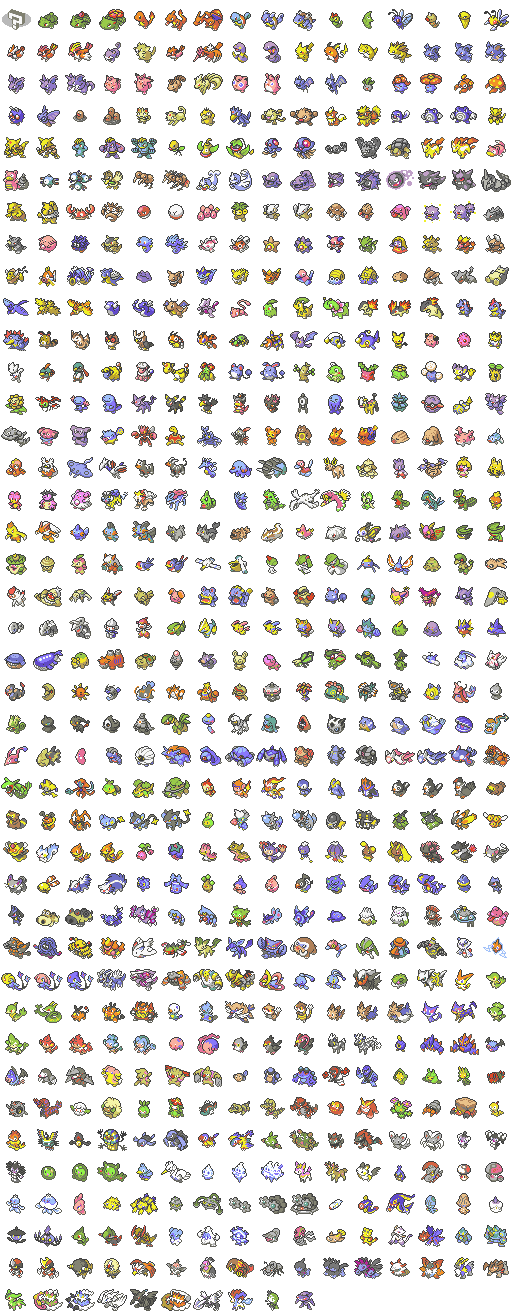
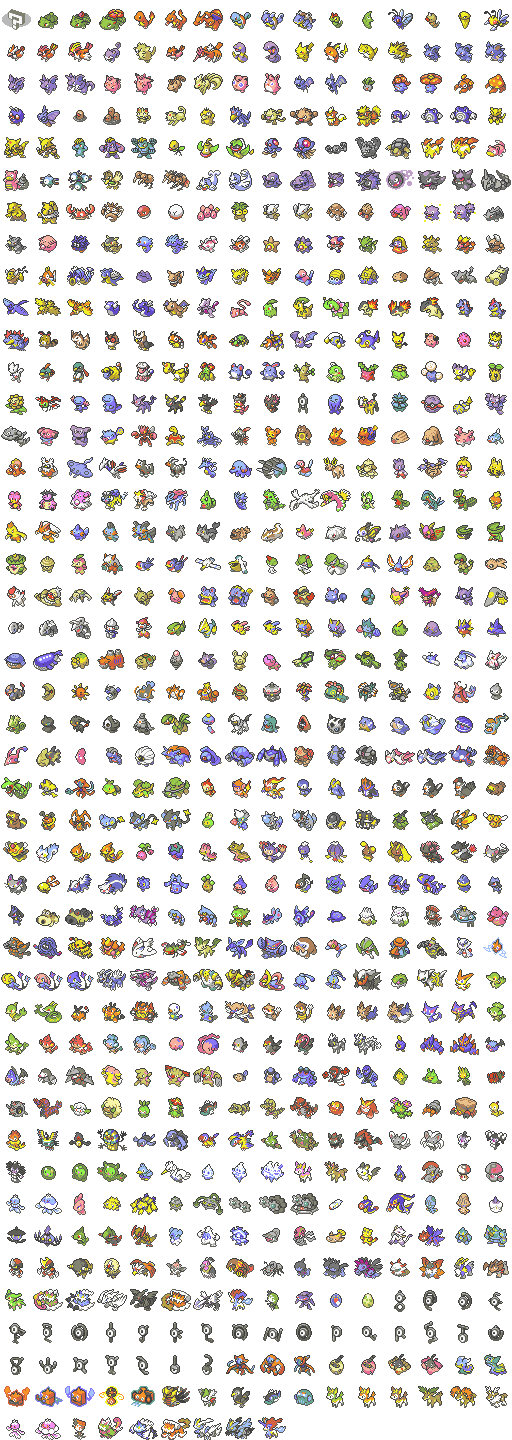
Add showing alternate forms

diff --git a/arm9/source/manager.cpp b/arm9/source/manager.cpp
@@ -65,11 +65,85 @@ std::shared_ptr<PKX> currentPokemon(int slot) {
 	else	return save->pkm(currentBox(), slot);
 }
 
-XYCoords getPokemonPosition(int dexNumber) {
-	if(dexNumber > 649)	return {0, 0};
+XYCoords getPokemonPosition(std::shared_ptr<PKX> pkm) {
+	if(pkm->species() > 649)	return {0, 0};
+	else if(pkm->species() == 201) { // Unown
+		if(pkm->alternativeForm() == 0);
+		else if(pkm->alternativeForm() < 5)
+			return {384+((pkm->alternativeForm()-1)*32), 1280};
+		else if(pkm->alternativeForm() < 21)
+			return {(pkm->alternativeForm()-5)*32, 1312};
+		else
+			return {(pkm->alternativeForm()-21)*32, 1344};
+	} else if(pkm->species() == 386) { // Deoxys
+		if(pkm->alternativeForm() > 0)
+			return {224+((pkm->alternativeForm()-1)*32), 1344};
+	} else if(pkm->species() == 412) { // Burmy
+		if(pkm->alternativeForm() > 0)
+			return {320+((pkm->alternativeForm()-1)*32), 1344};
+	} else if(pkm->species() == 413) { // Wormadam
+		if(pkm->alternativeForm() > 0)
+			return {384+((pkm->alternativeForm()-1)*32), 1344};
+	} else if(pkm->species() == 422) { // Shellos
+		if(pkm->alternativeForm() == 1)
+			return {448, 1344};
+	} else if(pkm->species() == 423) { // Gastrodon
+		if(pkm->alternativeForm() == 1)
+			return {480, 1344};
+	} else if(pkm->species() == 479) { // Rotom
+		if(pkm->alternativeForm() > 0)
+			return {(pkm->alternativeForm()-1)*32, 1376};
+	} else if(pkm->species() == 487) { // Giratina
+		if(pkm->alternativeForm() == 1)
+			return {160, 1376};
+	} else if(pkm->species() == 492) { // Shaymin
+		if(pkm->alternativeForm() == 1)
+			return {192, 1376};
+	} else if(pkm->species() == 521) { // Unfezant
+		if(pkm->gender() == 1)
+			return {224, 1376};
+	} else if(pkm->species() == 550) { // Basculin
+		if(pkm->alternativeForm() == 1)
+			return {256, 1376};
+	} else if(pkm->species() == 555) { // Darmanitan
+		if(pkm->alternativeForm() == 1)
+			return {288, 1376};
+	} else if(pkm->species() == 585) { // Deerling
+		if(pkm->alternativeForm() > 0)
+			return {320+((pkm->alternativeForm()-1)*32), 1376};
+	} else if(pkm->species() == 586) { // Sawsbuck
+		if(pkm->alternativeForm() > 0)
+			return {416+((pkm->alternativeForm()-1)*32), 1376};
+	} else if(pkm->species() == 592) { // Frillish
+		if(pkm->gender() == 1)
+			return {0, 1408};
+	} else if(pkm->species() == 593) { // Jellicent
+		if(pkm->gender() == 1)
+			return {32, 1408};
+	} else if(pkm->species() == 648) { // Meloetta
+		if(pkm->alternativeForm() == 1)
+			return {64, 1408};
+	} else if(pkm->species() == 641) { // Tornadus
+		if(pkm->alternativeForm() == 1)
+			return {96, 1408};
+	} else if(pkm->species() == 642) { // Thunderus
+		if(pkm->alternativeForm() == 1)
+			return {128, 1408};
+	} else if(pkm->species() == 645) { // Landorus
+		if(pkm->alternativeForm() == 1)
+			return {160, 1408};
+	} else if(pkm->species() == 646) { // Kyurem
+		if(pkm->alternativeForm() > 0)
+			return {192+((pkm->alternativeForm()-1)*32), 1408};
+	} else if(pkm->species() == 647) { // Keldeo
+		if(pkm->alternativeForm() == 1)
+			return {256, 1408};
+	}
+
+	// Non-alternate form, get based on dex number
 	XYCoords xy;
-	xy.y = (dexNumber/16)*pokemonSheetSize;
-	xy.x = (dexNumber-((dexNumber/16)*16))*pokemonSheetSize;
+	xy.y = (pkm->species()/16)*pokemonSheetSize;
+	xy.x = (pkm->species()-((pkm->species()/16)*16))*pokemonSheetSize;
 	return xy;
 }
 
@@ -169,7 +243,7 @@ void drawBox(bool top) {
 		for(int i=0;i<30;i++) {
 			// Fill Pokémon Sprites
 			if(Banks::bank->pkm(currentBankBox, i)->species() != 0) {
-				XYCoords xy = getPokemonPosition(Banks::bank->pkm(currentBankBox, i)->species());
+				XYCoords xy = getPokemonPosition(Banks::bank->pkm(currentBankBox, i));
 				fillSpriteFromSheetScaled(i+30, pokemonSheetScale, pokemonSheet, pokemonSheetSize, pokemonSheetSize, pokemonSheetData.width, xy.x, xy.y);
 			}
 		}
@@ -189,7 +263,7 @@ void drawBox(bool top) {
 		for(int i=0;i<30;i++) {
 			// Fill Pokémon Sprites
 			if(save->pkm(currentSaveBox, i)->species() != 0) {
-				XYCoords xy = getPokemonPosition(save->pkm(currentSaveBox, i)->species());
+				XYCoords xy = getPokemonPosition(save->pkm(currentSaveBox, i));
 				fillSpriteFromSheetScaled(i, pokemonSheetScale, pokemonSheet, pokemonSheetSize, pokemonSheetSize, pokemonSheetData.width, xy.x, xy.y);
 			}
 		}
@@ -233,9 +307,9 @@ void drawPokemonInfo(std::shared_ptr<PKX> pkm) {
 	}
 }
 
-void setHeldPokemon(int dexNum) {
-	if(dexNum != 0) {
-		XYCoords xy = getPokemonPosition(dexNum);
+void setHeldPokemon(std::shared_ptr<PKX> pkm) {
+	if(pkm->species() != 0) {
+		XYCoords xy = getPokemonPosition(pkm);
 		fillSpriteFromSheetScaled(bottomHeldPokemonID, pokemonSheetScale, pokemonSheet, pokemonSheetSize, pokemonSheetSize, pokemonSheetData.width, xy.x, xy.y);
 		fillSpriteFromSheetScaled(topHeldPokemonID, pokemonSheetScale, pokemonSheet, pokemonSheetSize, pokemonSheetSize, pokemonSheetData.width, xy.x, xy.y);
 	}
@@ -250,7 +324,7 @@ std::string aMenuText(int buttonMode, int i) {
 void drawAMenuButtons(std::vector<TextPos>& buttons, int buttonMode) {
 	for(uint i=0;i<buttons.size();i++) {
 		drawRectangle(buttons[i].x, buttons[i].y, 80, 24, DARKER_GRAY, false);
-		printText(aMenuText(buttonMode, i), buttons[i].x+4, buttons[i].y+4, false);
+		printTextMaxW(aMenuText(buttonMode, i), 80, 1, buttons[i].x+4, buttons[i].y+4, false);
 	}
 }
 
@@ -296,12 +370,13 @@ int aMenu(int pkmPos, std::vector<TextPos>& buttons, int buttonMode) {
 			optionSelected = false;
 			if(menuSelection == 0) { // Edit
 				edit:
-				if(topScreen)	Banks::bank->pkm(showPokemonSummary(currentPokemon(pkmPos)), currentSaveBox, pkmPos);
+				if(topScreen)	Banks::bank->pkm(showPokemonSummary(currentPokemon(pkmPos)), currentBankBox, pkmPos);
 				else	save->pkm(showPokemonSummary(currentPokemon(pkmPos)), currentSaveBox, pkmPos, false);
 				
 				// Redraw screen
 				drawRectangle(0, 0, 256, 192, DARK_GRAY, false);
 				drawBox(false);
+				if(topScreen)	drawBox(topScreen);
 				drawPokemonInfo(currentPokemon(pkmPos));
 				drawAMenuButtons(buttons, buttonMode);
 			} else if(menuSelection == 1) { // Move
@@ -334,6 +409,7 @@ int aMenu(int pkmPos, std::vector<TextPos>& buttons, int buttonMode) {
 					goto back;
 				}
 				drawBox(topScreen);
+				drawPokemonInfo(save->emptyPkm());
 				drawRectangle(5+bankBoxData.width, 66, 256-(5+bankBoxData.width), 60, DARK_GRAY, false);
 				drawAMenuButtons(buttons, buttonMode);
 			} else if(menuSelection == 4) { // Dump
@@ -445,12 +521,20 @@ int aMenu(int pkmPos, std::vector<TextPos>& buttons, int buttonMode) {
 				std::ifstream in(fileName);
 				u8* buffer = 0;
 				in.read((char*)buffer, 136);
-				save->pkm(save->emptyPkm()->getPKM(fileName.substr(fileName.size()-1) == "4" ? Generation::FOUR : Generation::FIVE, buffer), currentSaveBox, pkmPos, false);
+				if(topScreen)	Banks::bank->pkm(save->emptyPkm()->getPKM(fileName.substr(fileName.size()-1) == "4" ? Generation::FOUR : Generation::FIVE, buffer), currentSaveBox, pkmPos);
+				else	save->pkm(save->emptyPkm()->getPKM(fileName.substr(fileName.size()-1) == "4" ? Generation::FOUR : Generation::FIVE, buffer), currentSaveBox, pkmPos, false);
 				}
 				
 				// Reset 
 				chdir(path);
-				drawBox(topScreen);
+				drawRectangle(0, 0, 256, 192, DARK_GRAY, false);
+				drawBox(false);
+				if(topScreen)	drawBox(topScreen);
+				drawPokemonInfo(currentPokemon(pkmPos));
+
+				if(!topScreen)	setSpriteVisibility(bottomArrowID, true);
+				updateOam();
+				goto back;
 			} else if(menuSelection == 1) { // Create
 				goto edit;
 			} else if(menuSelection == 2) {

diff --git a/arm9/include/manager.h b/arm9/include/manager.h
@@ -24,14 +24,14 @@ int currentBox(void);
  * Returns the Pokémon in the provided slot
  * on the cursor's current screen
  */
-std::shared_ptr<PKX> currentPokemon(int slot);
+std::shared_ptr<PKX> currentPokemon(std::shared_ptr<PKX> pkm);
 
 /*
  * Gets the position of a Pokémon in the spritesheet
  * int dexNumber is the National dex number of the Pokémon
  * Returns an XYCoords of the spritesheet position
  */
-XYCoords getPokemonPosition(int dexNumber);
+XYCoords getPokemonPosition(std::shared_ptr<PKX> pkm);
 
 // Loads the images into RAM and creates the sprites
 void loadGraphics(void);
@@ -46,7 +46,7 @@ void drawBox(bool top);
 void drawPokemonInfo(std::shared_ptr<PKX> pkm);
 
 // Fills the held Pokémon sprite
-void setHeldPokemon(int dexNum);
+void setHeldPokemon(std::shared_ptr<PKX> pkm);
 
 // Main Pokémon box mangaement loop
 void manageBoxes(void);

diff --git a/arm9/source/party.cpp b/arm9/source/party.cpp
@@ -20,7 +20,7 @@ void showParty(int selection) {
 	for(int i=0;i<6;i++) {
 		drawImageTinted(partyButtons[i].x, partyButtons[i].y, menuButtonData.width, menuButtonData.height, selection == i ? TEAL_RGB : LIGHT_GRAY, menuButton, false);
 		if(save->pkm(i)->species() != 0) {
-			XYCoords xy = getPokemonPosition(save->pkm(i)->species());
+			XYCoords xy = getPokemonPosition(save->pkm(i));
 			drawImageFromSheetScaled(partyButtons[i].x+8, partyButtons[i].y, pokemonSheetSize, pokemonSheetSize, pokemonSheetScale, pokemonSheet, pokemonSheetData.width, xy.x, xy.y, false);
 			if(save->pkm(i)->nicknamed())	printText(save->pkm(i)->nickname(), partyButtons[i].x+47, partyButtons[i].y+14, false);
 			else	printText(Lang::species[save->pkm(i)->species()], partyButtons[i].x+47, partyButtons[i].y+14, false);

diff --git a/arm9/source/graphics/graphics.cpp b/arm9/source/graphics/graphics.cpp
@@ -291,7 +291,7 @@ void printTextTinted(std::u16string text, u16 color, int xPos, int yPos, bool to
 	for(uint c = 0; c < text.length(); c++) {
 		unsigned int charIndex = getTopFontSpriteIndex(text[c]);
 
-		if(xPos+x+fontTexcoords[2 + (4 * charIndex)] > 255) {
+		if(xPos+x+fontTexcoords[2 + (4 * charIndex)] > 256) {
 			x = 0;
 			yPos += 16;
 		} else if(text[c] == newline[0]) {
@@ -347,7 +347,7 @@ void printTextTintedScaled(std::u16string text, double scaleX,  double scaleY, u
 		for(uint c = 0; c < text.length(); c++) {
 			unsigned int charIndex = getTopFontSpriteIndex(text[c]);
 
-			if(xPos+x+fontTexcoords[2 + (4 * charIndex)] > 255) {
+			if(xPos+x+fontTexcoords[2 + (4 * charIndex)] > 256) {
 				x = 0;
 				yPos += 16/scaleY;
 			} else if(text[c] == newline[0]) {

diff --git a/arm9/source/summary.cpp b/arm9/source/summary.cpp
@@ -64,7 +64,7 @@ void drawSummaryP1(std::shared_ptr<PKX> pkm) {
 	// Draw Pokémon Pokéball, types, and shiny star (if shiny)
 	XYCoords xy = getPokeballPosition(pkm->ball());
 	drawImageFromSheet(148, 1, 15, 15, ballSheet, ballSheetData.width, xy.x, xy.y, false);
-	xy = getPokemonPosition(pkm->species());
+	xy = getPokemonPosition(pkm);
 	drawImageFromSheetScaled(169, 16, pokemonSheetSize, pokemonSheetSize, 2*pokemonSheetScale, pokemonSheet, pokemonSheetData.width, xy.x, xy.y, false);
 	drawImageFromSheet(150, 18, 32, 12, types, 32, 0, (((pkm->generation() == Generation::FOUR && pkm->type1() > 8) ? pkm->type1()-1 : pkm->type1())*12), false);
 	if(pkm->type1() != pkm->type2())

diff --git a/arm9/source/fileBrowse.cpp b/arm9/source/fileBrowse.cpp
@@ -140,7 +140,7 @@ void showDirectoryContents(const std::vector<DirEntry>& dirContents, int startRo
 	}
 }
 
-#define verNumber "v0.5"
+#define verNumber "v0.6"
 
 bool showTopMenuOnExit = true, noCardMessageSet = false;
 int tmCurPos = 0, tmScreenOffset = 0, tmSlot1Offset = 0;
